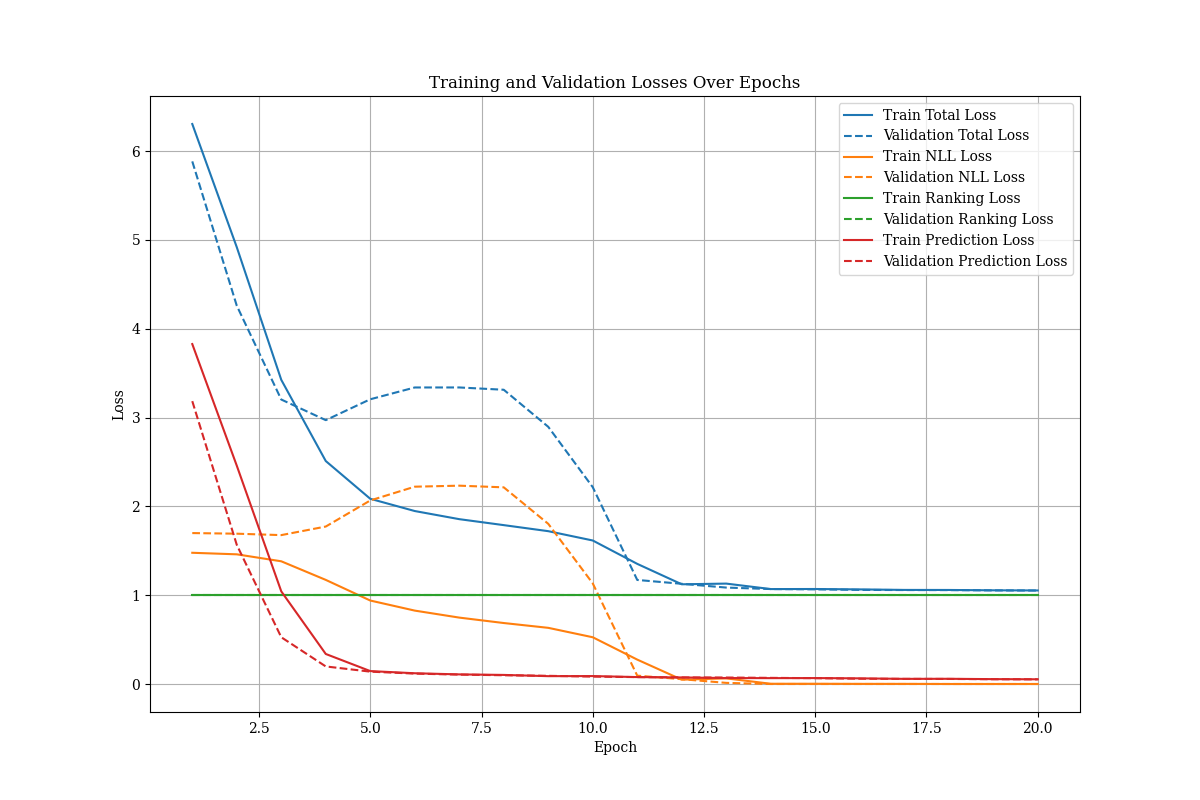
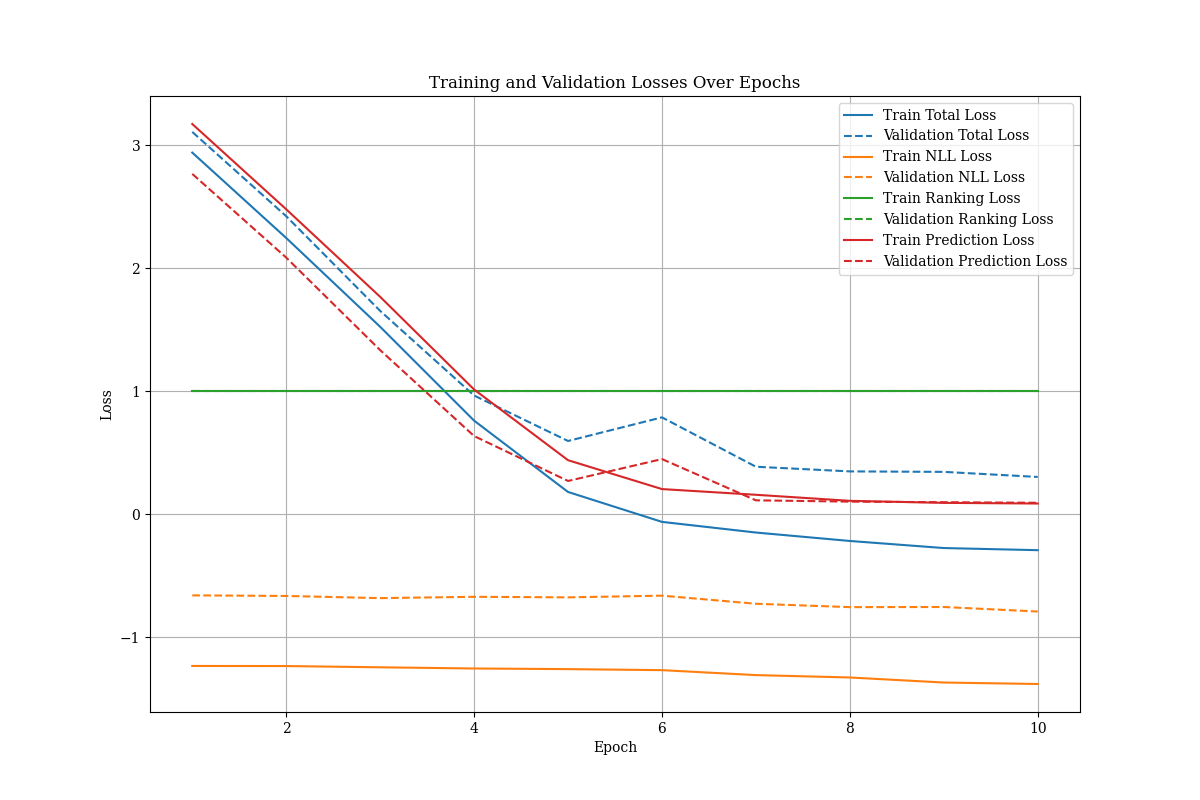
Added binned ouptuts time to dynamic deep hit

diff --git a/PhagoPred/survival_analysis/train.py b/PhagoPred/survival_analysis/train.py
@@ -21,15 +21,15 @@ def train_step(model, dataloader, optimiser, loss_fn, device):
     losses = defaultdict(float)
     
     for batch in dataloader:
-        cell_features, lengths, observation_times, event_indicators = batch
+        cell_features, lengths, observation_time_bins, event_indicators, observation_times = batch
         cell_features = cell_features.to(device)
         lengths = lengths.to(device)
-        observation_times = observation_times.to(device)
+        observation_time_bins = observation_time_bins.to(device)
         event_indicators = event_indicators.to(device)
 
         optimiser.zero_grad()
         outputs, y = model(cell_features)
-        loss_values = loss_fn(outputs, cell_features, y, observation_times, event_indicators)
+        loss_values = loss_fn(outputs, cell_features, y, observation_time_bins, event_indicators)
         
         loss = loss_values[0]
         loss.backward()
@@ -134,12 +134,15 @@ def train_single_dataset(
         hdf5_paths=[hdf5_path],
         features=features,
         specified_cell_idxs=train_idxs.tolist(),
+        num_bins=model_params['output_size']
     )
     train_dataset.plot_event_vs_censoring_hist(save_path=save_dir / 'train_event_censoring_histogram.png', title='Training Set Event vs Censoring Histogram')
+    bins = train_dataset.get_bins()
 
     normalisation_means, normalization_stds = train_dataset.get_normalization_stats()
     model_params['normalization_means'] = normalisation_means.tolist()
     model_params['normalization_stds'] = normalization_stds.tolist()
+    model_params['event_time_bins'] = bins.tolist()
     normalisation_means = torch.tensor(normalisation_means, dtype=torch.float32)
     normalization_stds = torch.tensor(normalization_stds, dtype=torch.float32)
 
@@ -147,6 +150,8 @@ def train_single_dataset(
         hdf5_paths=[hdf5_path],
         features=features,
         specified_cell_idxs=val_idxs.tolist(),
+        num_bins =model_params['output_size'],
+        event_time_bins=bins,
     )
     validate_dataset.plot_event_vs_censoring_hist(save_path=save_dir / 'val_event_censoring_histogram.png', title='Validation Set Event vs Censoring Histogram')
 
@@ -155,27 +160,27 @@ def train_single_dataset(
     validate_loader = torch.utils.data.DataLoader(validate_dataset, batch_size, shuffle=False, collate_fn=lambda x: collate_fn(x, means=normalisation_means, stds=normalization_stds, device=device), num_workers=0)
 
     # # --- Step 5: Save model params ---
-    # with open(save_dir / 'model_params.json', 'w') as f:
-    #     json.dump(model_params, f)
+    with open(save_dir / 'model_params.json', 'w') as f:
+        json.dump(model_params, f)
 
-    # # --- Step 6: Train loop ---
-    # optimiser = optimiser(model.parameters(), lr=lr)
-    # training_json = save_dir / 'training.jsonl'
+    # --- Step 6: Train loop ---
+    optimiser = optimiser(model.parameters(), lr=lr)
+    training_json = save_dir / 'training.jsonl'
 
-    # with open(training_json, 'w') as f:
-    #     for epoch in tqdm(range(1, num_epochs + 1), desc="Training"):
-    #         train_losses = train_step(model, train_loader, optimiser, loss_fn, device)
-    #         validate_losses = validate_step(model, validate_loader, loss_fn, device)
-    #         losses_dict = {'epoch': epoch, 'train': train_losses, 'validate': validate_losses}
-    #         print(losses_dict)
-    #         f.write(json.dumps(losses_dict) + '\n')
+    with open(training_json, 'w') as f:
+        for epoch in tqdm(range(1, num_epochs + 1), desc="Training"):
+            train_losses = train_step(model, train_loader, optimiser, loss_fn, device)
+            validate_losses = validate_step(model, validate_loader, loss_fn, device)
+            losses_dict = {'epoch': epoch, 'train': train_losses, 'validate': validate_losses}
+            print(losses_dict)
+            f.write(json.dumps(losses_dict) + '\n')
 
-    # # --- Step 7: Save model and plot ---
-    # torch.save(model.state_dict(), save_dir / 'model.pth')
-    # plot_training_losses(training_json, save_dir / 'loss_plot.png')
-    # print(f"Training complete. Model saved to {save_dir}")
+    # --- Step 7: Save model and plot ---
+    torch.save(model.state_dict(), save_dir / 'model.pth')
+    plot_training_losses(training_json, save_dir / 'loss_plot.png')
+    print(f"Training complete. Model saved to {save_dir}")
 
-    visualize_validation_predictions(model, validate_loader, device, num_examples=5, save_path=save_dir)
+    visualize_validation_predictions(model, validate_loader, device, num_examples=5, save_path=save_dir , bin_edges=bins)
 
 
 def plot_training_losses(losses_json_path: Path, output_path: Path = None):
@@ -255,12 +260,12 @@ def main():
     
     model_params = {
         'input_size': len(features)*2,  # Features + mask
-        'output_size': 6000,  # Number of time bins
-        'lstm_hidden_size': 64,
+        'output_size': 8,  # Number of time bins
+        'lstm_hidden_size': 32,
         'lstm_dropout': 0.0,
         'predictor_layers': [32],
-        'attention_layers': [64, 64],
-        'fc_layers': [64, 64],
+        'attention_layers': [32, 32],
+        'fc_layers': [32, 32],
         'features': features,
     }
     
@@ -289,7 +294,7 @@ def main():
         features=features,
         optimiser=torch.optim.Adam,
         loss_fn=dynamic_deephit.compute_loss,
-        num_epochs=20,
+        num_epochs=10,
         save_dir=Path('PhagoPred') / 'survival_analysis' / 'models' / 'dynamic_deephit' / 'test_run_13_06',
         batch_size=128,
         lr=1e-3,

diff --git a/PhagoPred/survival_analysis/data/dataset.py b/PhagoPred/survival_analysis/data/dataset.py
@@ -17,6 +17,8 @@ class CellDataset(torch.utils.data.Dataset):
                  means: np.ndarray=None,
                  stds: np.ndarray=None,
                  specified_cell_idxs: list[int]=None,
+                 event_time_bins = None,
+                 num_bins: int = 16,
                  ):
         """
         A PyTorch Dataset for loading cell data from multiple HDF5 files.
@@ -34,15 +36,19 @@ class CellDataset(torch.utils.data.Dataset):
         self.pre_death_frames = pre_death_frames
         self.interpolate_nan = interpolate_nan
         self.specified_cell_idxs = specified_cell_idxs if specified_cell_idxs and len(self.hdf5_paths) == 1 else None
+        self.num_bins = num_bins
 
         self._lock = threading.Lock()
         self._files = [None] * len(hdf5_paths)  # To hold open file handles
         
         self._features_cache = [None] * len(hdf5_paths)  # Cache for features xr.Dataset
 
+        self.event_time_bins = event_time_bins
         self.cell_metadata = None
         self._load_cell_metadata()
-        
+
+        # self.event_time_bins = self._compute_bins()
+
         self.means = means
         self.stds = stds
 
@@ -62,6 +68,17 @@ class CellDataset(torch.utils.data.Dataset):
         means = np.nanmean(sampled_data, axis=0)
         stds = np.nanstd(sampled_data, axis=0)
         return means, stds
+    
+    def _compute_bins(self):
+        obs_times = self.cell_metadata['End Frames'] - self.cell_metadata['Start Frames'] + 1
+        bins = np.quantile(obs_times, np.linspace(0, 1, self.num_bins + 1))
+        return bins
+    
+    def get_bins(self):
+        if self.event_time_bins is None:
+            self.event_time_bins = self._compute_bins()
+            print("Computed event time bins.")
+        return self.event_time_bins
     
     def get_normalization_stats(self):
         if self.means is None or self.stds is None:
@@ -144,6 +161,8 @@ class CellDataset(torch.utils.data.Dataset):
         cell_features = cell_features.to_dataarray(dim='Feature')
         cell_features = cell_features.transpose('Frame', 'Feature').values # [num_frames, num_features]
 
+        observation_time_bin = np.digitize(observation_time, self.get_bins()) - 1  # Bin the observation time
+        observation_time_bin = np.clip(observation_time_bin, 0, self.num_bins - 1)
 
         # # Create mask of non-NaNs using torch.isnan
         # nan_mask = ~np.isnan(cell_features)
@@ -155,10 +174,12 @@ class CellDataset(torch.utils.data.Dataset):
 
         # # Add mask as additional features by concatenating along last dim
         # cell_features = np.concatenate([cell_features, nan_mask.astype(np.float32)], axis=-1)  # shape: [num_frames, num_features*2]
+        # print(self.get_bins())
+        # print(observation_time)
 
-        return cell_features, observation_time, event_indicator
+        return cell_features, observation_time_bin, event_indicator, observation_time
 
-    def plot_event_vs_censoring_hist(self, title='Events vs Censored', save_path=None, bins=30, show=False):
+    def plot_event_vs_censoring_hist(self, title='Events vs Censored', save_path=None, bins=16, show=False):
         """
         Plot a histogram of observation times for event vs. censored samples.
 
@@ -200,12 +221,16 @@ def collate_fn(batch, fixed_length=None, means=None, stds=None, device='cpu'):
     """
     Custom collate function to handle variable-length sequences and padding.
     """
-    cell_features, observation_times, event_indicators = zip(*batch)
+    cell_features, observation_time_bins, event_indicators, observation_times = zip(*batch)
+    # print(observation_times)
 
-    observation_times = torch.tensor(observation_times, dtype=torch.float32, device=device)
+    observation_time_bins = torch.tensor(observation_time_bins, dtype=torch.long, device=device)
     event_indicators = torch.tensor(event_indicators, dtype=torch.float32, device=device)
+    observation_times = torch.tensor(observation_times, dtype=torch.long, device=device)
+    # print(observation_times)
 
     cell_features = [torch.tensor(features, dtype=torch.float32, device=device) for features in cell_features]  # List of [num_frames, num_features]
+    # print(cell_features)
 
     if fixed_length is not None:
         cell_features = [f[:fixed_length] for f in cell_features]
@@ -230,7 +255,7 @@ def collate_fn(batch, fixed_length=None, means=None, stds=None, device='cpu'):
     # Concatenate mask as additional features along last dimension
     cell_features = torch.cat([cell_features, nan_mask.float()], dim=-1)  # shape: [batch, frames, features*2]
 
-    return cell_features, lengths, observation_times, event_indicators
+    return cell_features, lengths, observation_time_bins, event_indicators, observation_times
 
 
 

diff --git a/PhagoPred/survival_analysis/validate.py b/PhagoPred/survival_analysis/validate.py
@@ -4,6 +4,7 @@ from collections import defaultdict
 import matplotlib.pyplot as plt
 import torch
 import json
+import numpy as np
 
 from PhagoPred.survival_analysis.data.dataset import CellDataset, collate_fn
 from PhagoPred.survival_analysis.models import dynamic_deephit
@@ -15,14 +16,15 @@ def validate_step(model, dataloader, loss_fn, device):
 
     with torch.no_grad():
         for batch in dataloader:
-            cell_features, lengths, observation_times, event_indicators = batch
+            cell_features, lengths, observation_time_bins, event_indicators, observation_times = batch
             cell_features = cell_features.to(device)
             lengths = lengths.to(device)
-            observation_times = observation_times.to(device)
+            observation_time_bins = observation_time_bins.to(device)
             event_indicators = event_indicators.to(device)
+            observation_times = observation_times.to(device)
 
             outputs, y = model(cell_features)
-            loss_values = loss_fn(outputs, cell_features, y, observation_times, event_indicators)
+            loss_values = loss_fn(outputs, cell_features, y, observation_time_bins, event_indicators)
             for key, value in zip(
                 ['Total Loss', 'NLL Loss', 'Ranking Loss', 'Prediction Loss'], loss_values):
                 losses[key] += value.item() * cell_features.size(0)  # Multiply by batch size
@@ -30,7 +32,7 @@ def validate_step(model, dataloader, loss_fn, device):
     avg_losses = {key: value / len(dataloader.dataset) for key, value in losses.items()}
     return avg_losses
 
-def visualize_validation_predictions(model, dataloader, device, num_examples=5, save_path=None):
+def visualize_validation_predictions(model, dataloader, device, bin_edges, num_examples=5, save_path=None):
     model.eval()
     model.to(device)
 
@@ -38,10 +40,12 @@ def visualize_validation_predictions(model, dataloader, device, num_examples=5, 
 
     with torch.no_grad():
         for batch in dataloader:
-            cell_features, lengths, observation_times, event_indicators = batch
+            
+            cell_features, lengths, observation_time_bins, event_indicators, observation_times = batch
             cell_features = cell_features.to(device)
-            observation_times = observation_times.cpu().numpy()
+            observation_time_bins = observation_time_bins.cpu().numpy()
             event_indicators = event_indicators.cpu().numpy()
+            observation_times = observation_times.cpu().numpy()
 
             # Get predicted distribution over time bins
             predicted_dists, _ = model(cell_features)  # Shape: (batch_size, time_bins)
@@ -51,13 +55,17 @@ def visualize_validation_predictions(model, dataloader, device, num_examples=5, 
             for i in range(len(cell_features)):
                 if examples_plotted >= num_examples:
                     break
-
+                if i >= 1:
+                    diff = np.abs(predicted_dists[i] - predicted_dists[i - 1]).sum()
+                    input_diff = np.abs(cell_features[i].cpu().numpy() - cell_features[i - 1].cpu().numpy()).sum()
+                    print(f"Distribution difference between {i} and {i-1}: {diff}")
+                    print(f"Input difference between {i} and {i-1}: {input_diff}")
                 pred_dist = predicted_dists[i]
                 true_time = observation_times[i]
                 event = event_indicators[i]
 
                 plt.figure(figsize=(10, 4))
-                plt.plot(pred_dist, label='Predicted Distribution')
+                plt.step(bin_edges[:-1], pred_dist, label='Predicted Distribution')
                 if event == 1:
                     plt.axvline(x=true_time, color='red', linestyle='--', label=f'True Death @ {true_time}')
                 else:

diff --git a/PhagoPred/survival_analysis/models/losses.py b/PhagoPred/survival_analysis/models/losses.py
@@ -23,6 +23,17 @@ def negative_log_likelihood(outputs: torch.Tensor,
     
     uncensored_outputs = outputs[e == 1]  # (num_events, num_time_bins)
     uncensored_times = t[e == 1]  # (num_events,)
+    
+    assert uncensored_times.max().item() < uncensored_outputs.size(1), \
+    f"Max uncensored_time {uncensored_times.max().item()} >= num_time_bins {uncensored_outputs.size(1)}"
+
+    assert uncensored_times.min().item() >= 0, \
+    f"Negative index in uncensored_times: min={uncensored_times.min().item()}"
+    
+    assert not torch.isnan(uncensored_outputs).any(), "NaNs found in uncensored_outputs"
+    assert not torch.isinf(uncensored_outputs).any(), "Infs found in uncensored_outputs"
+    assert not torch.isnan(uncensored_times).any(), "NaNs found in uncensored_times"
+    assert not torch.isinf(uncensored_times).any(), "Infs found in uncensored_times"
 
     o_t = uncensored_outputs[torch.arange(uncensored_outputs.size(0)), uncensored_times] + epsilon  # predicted probability of event occuring at time t (num_events,)
     o_t = o_t.clamp(min=epsilon, max=1.0)  # Clamp to avoid log(0)
@@ -96,9 +107,13 @@ def prediction_loss(y: torch.Tensor, x: torch.Tensor, mask: torch.Tensor) -> tor
         y: (batch_size, seq_length, num_features) - true features 
         x: (batch_size, seq_length, num_features) - predicted features 
     """
-    mse_loss = torch.nn.functional.mse_loss(x, y, reduction='none')
-    masked_loss = mse_loss * mask
-    return masked_loss.sum() / (mask.sum() + 1e-8)
+    x_shift = x[:, :-1, :]  # (batch_size, seq_length-1, num_features)
+    y_shift = y[:, 1:, :]   # (batch_size, seq_length-1, num_features)
+    mask_shift = mask[:, 1:, :]      # (batch_size, seq_length-1, num_features)
+    
+    mse_loss = torch.nn.functional.mse_loss(x_shift, y_shift, reduction='none')
+    masked_loss = mse_loss * mask_shift
+    return masked_loss.sum() / (mask_shift.sum() + 1e-8)
 
 
 def test(num_samples=10, num_time_bins=20):

diff --git a/PhagoPred/survival_analysis/models/dynamic_deephit.py b/PhagoPred/survival_analysis/models/dynamic_deephit.py
@@ -62,12 +62,12 @@ class DynamicDeepHit(torch.nn.Module):
         Args:
             x: [Sequence length, batch_size, num_features]
         """
-        lstm_out, (lstm_hidden, _) = self.lstm(x)  # lstm_hidden(seq_length, batch_size, lstm_hidden_size)
-        y = self.predictor(lstm_out)  # (batch_size, seq_length, num_features)
-        lstm_hidden = lstm_hidden.permute(1, 0, 2)  # (batch_size, seq_length, lstm_hidden_size)
-        attn_weights = self.attention(lstm_hidden).squeeze(-1) # (batch, seq_len)
+        lstm_out, (h_n, c_n) = self.lstm(x)  # lstm_out (batch_size, seq_len, lstm_hidden_size)
+        y = self.predictor(lstm_out)  # y (batch_size, seq_length, num_features//2)
+        # lstm_hidden = lstm_hidden.permute(1, 0, 2)  # (batch_size, seq_length, lstm_hidden_size)
+        attn_weights = self.attention(lstm_out).squeeze(-1) # (batch, seq_len)
         attn_weights = torch.nn.functional.softmax(attn_weights, dim=1)  # (batch, seq_len)
-        context_vector = torch.sum(attn_weights.unsqueeze(-1) * lstm_hidden, dim=1)  # (batch, lstm_hidden_size)
+        context_vector = torch.sum(attn_weights.unsqueeze(-1) * lstm_out, dim=1)  # (batch, lstm_hidden_size)
         output = self.fc(context_vector)  # (batch, output_size)
         output = torch.nn.functional.softmax(output, dim=-1)  # (batch, output_size)
         return output, y
